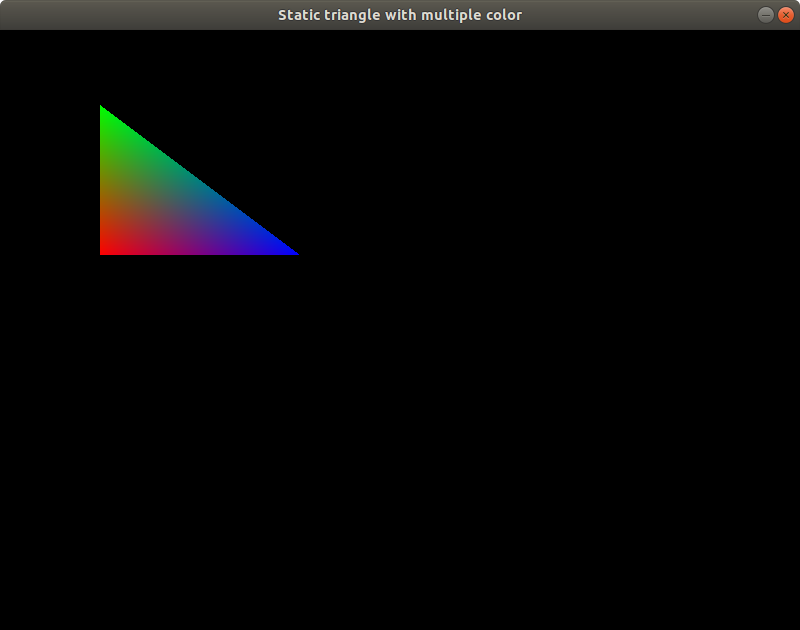
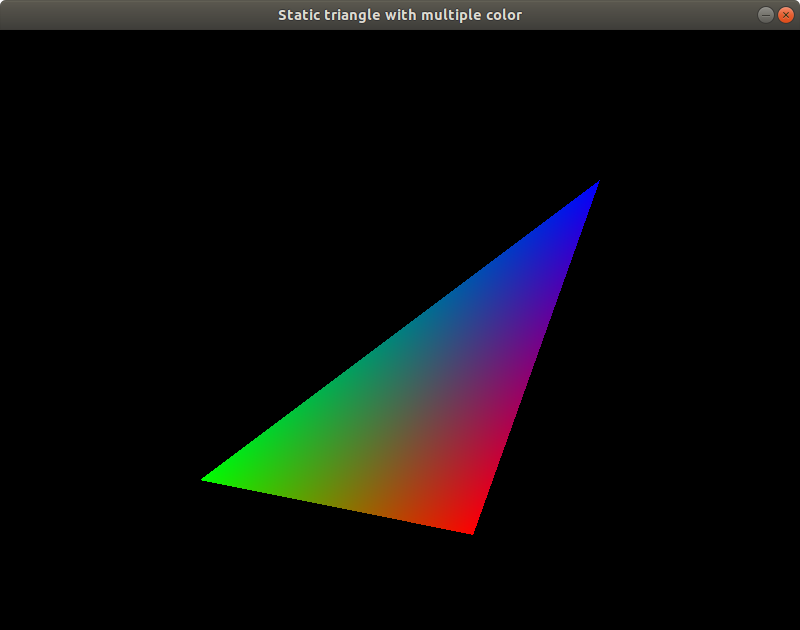
Refactor 02 multiple colors app

Changed region(s): [[0.25, 0.2714, 0.75, 0.8444], [0.125, 0.1508, 0.375, 0.4222]]

diff --git a/examples/02-multiple-color-triangle/app.go b/examples/02-multiple-color-triangle/app.go
@@ -5,6 +5,7 @@ import (
 
 	"github.com/akosgarai/opengl_playground/pkg/application"
 	wrapper "github.com/akosgarai/opengl_playground/pkg/glwrapper"
+	"github.com/akosgarai/opengl_playground/pkg/mesh"
 	"github.com/akosgarai/opengl_playground/pkg/primitives/triangle"
 	"github.com/akosgarai/opengl_playground/pkg/shader"
 	"github.com/akosgarai/opengl_playground/pkg/window"
@@ -20,12 +21,7 @@ const (
 )
 
 var (
-	coordinates = [3]mgl32.Vec3{
-		mgl32.Vec3{-0.75, 0.75, 0}, // top
-		mgl32.Vec3{-0.75, 0.25, 0}, // left
-		mgl32.Vec3{-0.25, 0.25, 0}, // right
-	}
-	colors = [3]mgl32.Vec3{
+	color = []mgl32.Vec3{
 		mgl32.Vec3{0, 1, 0}, // top
 		mgl32.Vec3{1, 0, 0}, // left
 		mgl32.Vec3{0, 0, 1}, // right
@@ -33,6 +29,12 @@ var (
 
 	app *application.Application
 )
+
+func GenerateColoredTriangleMesh(col []mgl32.Vec3) *mesh.ColorMesh {
+	triang := triangle.New(30, 60, 90)
+	v, i := triang.ColoredMeshInput(col)
+	return mesh.NewColorMesh(v, i)
+}
 
 func main() {
 	runtime.LockOSThread()
@@ -42,10 +44,13 @@ func main() {
 	defer glfw.Terminate()
 	wrapper.InitOpenGL()
 
-	shaderProgram := shader.NewShader("examples/02-static-triangle/vertexshader.vert", "examples/02-static-triangle/fragmentshader.frag")
+	shaderProgram := shader.NewShader("examples/02-static-triangle/shaders/vertexshader.vert", "examples/02-static-triangle/shaders/fragmentshader.frag")
+	app.AddShader(shaderProgram)
 
-	item := triangle.New(coordinates, colors, shaderProgram)
-	app.AddItem(item)
+	triang := GenerateColoredTriangleMesh(color)
+	triang.SetRotationAngle(mgl32.DegToRad(90))
+	triang.SetRotationAxis(mgl32.Vec3{1, 1, 0})
+	app.AddMeshToShader(triang, shaderProgram)
 
 	wrapper.Enable(wrapper.DEPTH_TEST)
 	wrapper.DepthFunc(wrapper.LESS)
